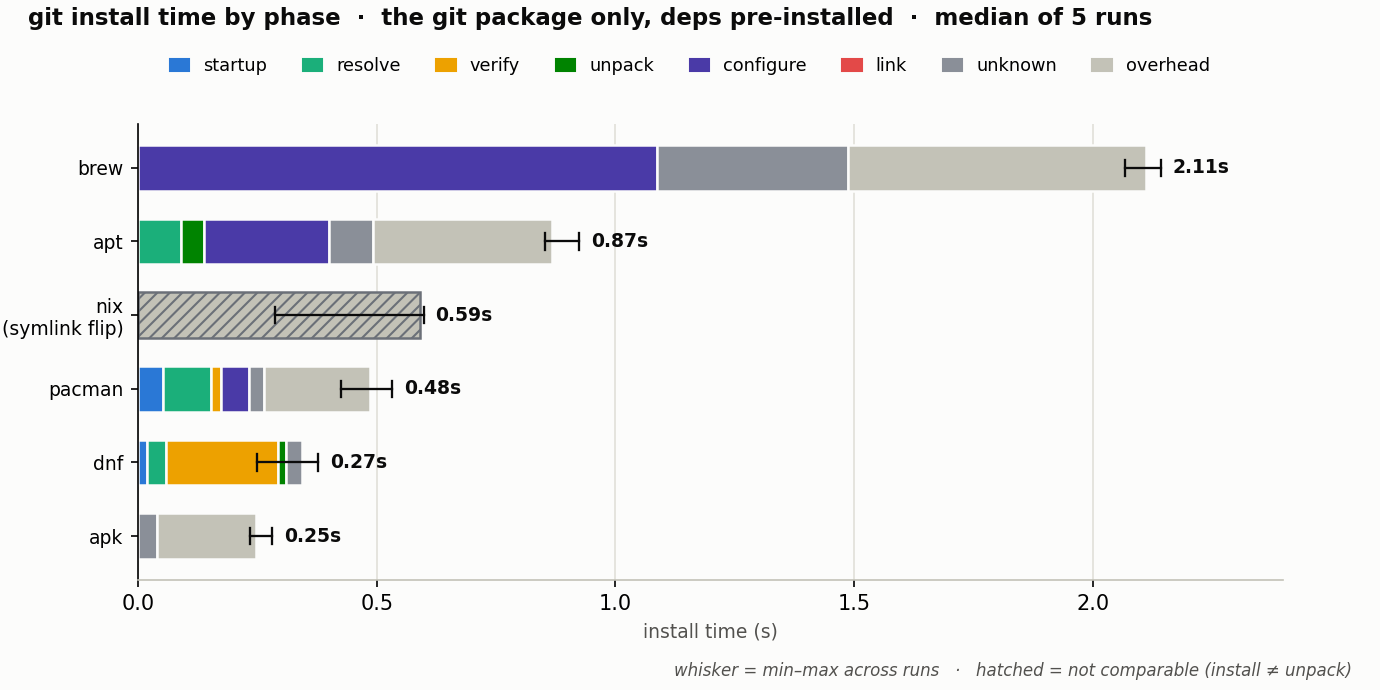
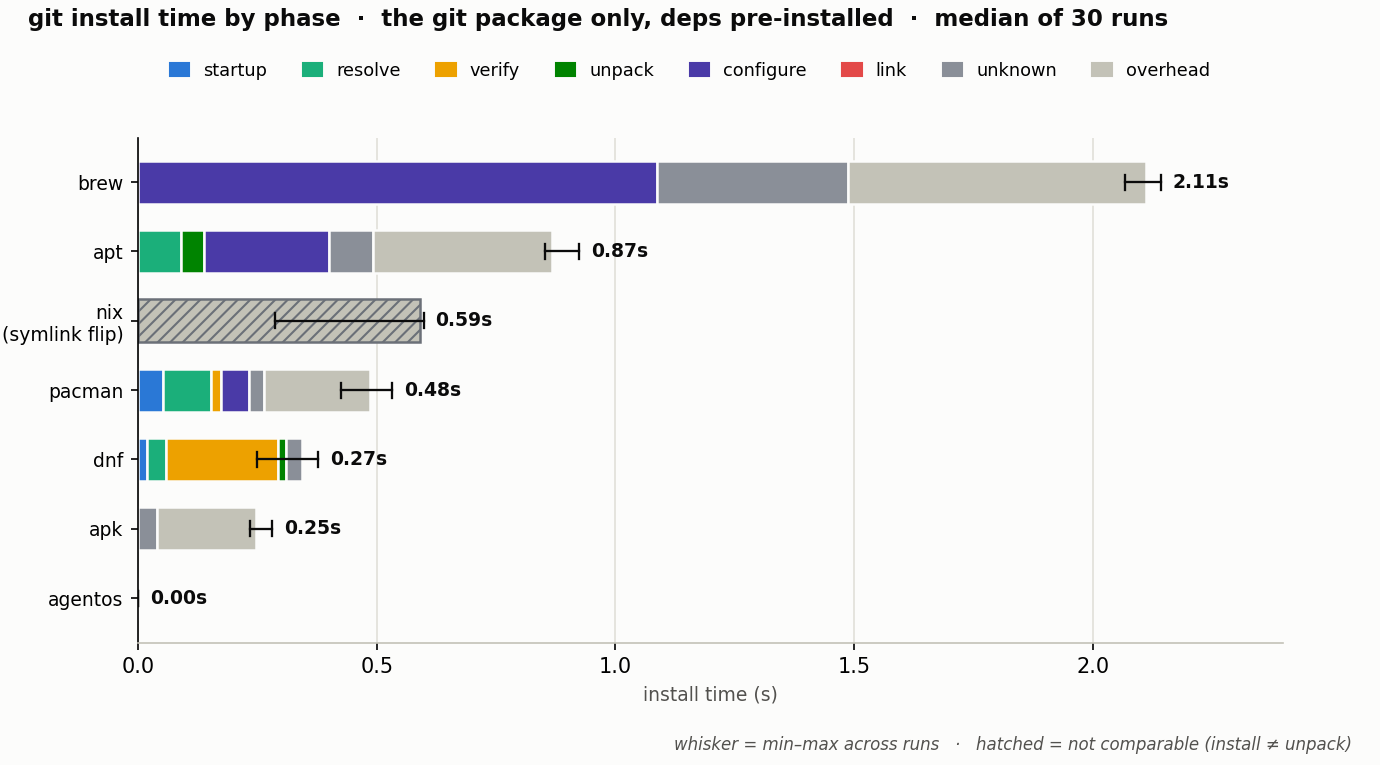
feat: add agentos as a hardcoded reference point
- Add agentOS package-load bench (git package: ~0.017 ms median, no download)
  as a hardcoded reference column in the chart and matrix
- Not run by the Docker harness; row lives in-source in synthesize.js (results/
  is git-ignored) with a permalink to the source bench
- Document the reference + permalink in the README intro
- Regenerate chart.png and results tables

diff --git a/synthesize.js b/synthesize.js
@@ -9,7 +9,10 @@ const os = require('os');
 const { execSync } = require('child_process');
 
 const OUT = path.join(__dirname, 'results');
-const ORDER = ['apk', 'pacman', 'dnf', 'apt', 'nix', 'brew'];
+// 'agentos' is HARDCODED — see AGENTOS_ROW below. It is NOT run by run.js's Docker
+// harness; its numbers come from the agentOS package-load bench (results/ is git-
+// ignored, so the row lives here in-source to survive regeneration). Keep it first.
+const ORDER = ['agentos', 'apk', 'pacman', 'dnf', 'apt', 'nix', 'brew'];
 
 // Canonical install phases. Each install-log line is bucketed by the FIRST pattern it
 // matches, in this order; unmatched lines go to a VISIBLE 'unknown' bucket (never a
@@ -60,9 +63,22 @@ function topSteps(lines, n = 3) {
     .map(({ d, text }) => `${d.toFixed(3)}s ${text.slice(0, 46).trim()}`);
 }
 
+// ---- HARDCODED agentos reference (not run by the Docker harness) ----
+// agentOS does not "install" a package the way apt/apk/etc. do — it loads a
+// precomputed `.aospkg` into its VM. Loading the `git` package takes ~0.017 ms
+// (median; min 0.013, max 0.020), with no download. These numbers are copied from
+// the agentOS package-load benchmark and are NOT reproduced by this repo:
+// https://github.com/rivet-dev/agentos/blob/9c97667d3b765ea008e3c661cc807adbcb0c9ac9/crates/native-sidecar/tests/projection_bench.rs
+const AGENTOS_ROW = {
+  manager: 'agentos', image: 'agentos VM (V8/wasm)', git: 'wasm', reps: 30, deps: '1',
+  download_s: 0, install_s: 0.000017, install_min: 0.000013, install_max: 0.00002,
+  buckets: Object.fromEntries(DISPLAY_PHASES.map((k) => [k, 0])), top: [], size: undefined,
+};
+
 // ---- collect ----
 const rows = [];
 for (const m of ORDER) {
+  if (m === 'agentos') { rows.push({ ...AGENTOS_ROW }); continue; }
   let meta;
   try { meta = JSON.parse(fs.readFileSync(path.join(OUT, `${m}.json`), 'utf8')); } catch { continue; }
   const installLines = parseTs(readLog(m, 'install'));

diff --git a/README.md b/README.md
@@ -20,6 +20,13 @@ timed phases:
 Every line of both phases is timestamped with the elapsed time since the previous line,
 so the install can be broken down step by step. Set `REPS=<n>` to change the repeat count.
 
+> **agentos** appears in the results as a **hardcoded reference point** — it is *not* run by
+> this Docker harness. Instead of a traditional package manager, agentOS loads a precomputed
+> `.aospkg` into its VM; loading the `git` package takes **~0.017 ms** (median; min 0.013,
+> max 0.020), with no download step. That number comes from the agentOS package-load
+> benchmark, not from this repo:
+> <https://github.com/rivet-dev/agentos/blob/9c97667d3b765ea008e3c661cc807adbcb0c9ac9/crates/native-sidecar/tests/projection_bench.rs>
+
 ## Latest results
 
 Auto-generated by `synthesize.js` on the last run — the chart and matrix below, and the
@@ -33,33 +40,34 @@ Auto-generated by `synthesize.js` on the last run — the chart and matrix below
 - **CPU:** 12th Gen Intel(R) Core(TM) i7-12700KF (20 logical cores)
 - **Memory:** 67.2 GB   **Arch:** x64   **Kernel:** 6.1.0-41-amd64
 - **OS:** Debian GNU/Linux 12 (bookworm)   **Docker:** 28.3.1
-- **Disk (/):** /dev/nvme0n1p2 ext4  937G  142G
-- **Generated:** 7/6/2026, 12:14:20 AM PDT
+- **Disk (/):** /dev/nvme0n1p2 ext4  937G  261G
+- **Generated:** 7/6/2026, 3:51:01 AM PDT
 
 ### Phase correlation matrix
 
-_`install MEDIAN` is the median of 5 offline runs (`install min–max` shown); sub-phases are a heuristic bucketing of log lines (see README). `download*` is a single, network-dependent sample._
+_`install MEDIAN` is the median of 30 offline runs (`install min–max` shown); sub-phases are a heuristic bucketing of log lines (see README). `download*` is a single, network-dependent sample._
 
-| phase (s) | apk | pacman | dnf | apt | nix | brew |
-|---|---:|---:|---:|---:|---:|---:|
-| **download\*** | 0.63 | 1.02 | 1.89 | 1.06 | 6.83 | 3.02 |
-| install: startup | 0.00 | 0.05 | 0.02 | 0.00 | 0.00 | 0.00 |
-| install: resolve | 0.00 | 0.10 | 0.04 | 0.09 | 0.00 | 0.00 |
-| install: verify | 0.00 | 0.02 | 0.23 | 0.00 | 0.00 | 0.00 |
-| install: unpack | 0.00 | 0.00 | 0.02 | 0.05 | 0.00 | 0.00 |
-| install: configure | 0.00 | 0.06 | 0.00 | 0.26 | 0.00 | 1.09 |
-| install: link | 0.00 | 0.00 | 0.00 | 0.00 | 0.00 | 0.00 |
-| install: unknown | 0.04 | 0.03 | 0.03 | 0.09 | 0.00 | 0.40 |
-| **install MEDIAN** | 0.25 | 0.48 | 0.27 | 0.87 | 0.59 | 2.11 |
-| install min–max | 0.23–0.28 | 0.43–0.53 | 0.25–0.38 | 0.85–0.92 | 0.29–0.60 | 2.07–2.14 |
-| git version | 2.54.0 | 2.55.0 | 2.55.0 | 2.39.5 | 2.54.0 | 2.51.2 |
-| deps ~ | 1 | 1 | 1 | 1 | 84 | 1 |
-| download size | — | 7.11 MiB | 5 MiB | 7264 kB | 127.7 MiB | — |
+| phase (s) | agentos | apk | pacman | dnf | apt | nix | brew |
+|---|---:|---:|---:|---:|---:|---:|---:|
+| **download\*** | 0.00 | 0.63 | 1.02 | 1.89 | 1.06 | 6.83 | 3.02 |
+| install: startup | 0.00 | 0.00 | 0.05 | 0.02 | 0.00 | 0.00 | 0.00 |
+| install: resolve | 0.00 | 0.00 | 0.10 | 0.04 | 0.09 | 0.00 | 0.00 |
+| install: verify | 0.00 | 0.00 | 0.02 | 0.23 | 0.00 | 0.00 | 0.00 |
+| install: unpack | 0.00 | 0.00 | 0.00 | 0.02 | 0.05 | 0.00 | 0.00 |
+| install: configure | 0.00 | 0.00 | 0.06 | 0.00 | 0.26 | 0.00 | 1.09 |
+| install: link | 0.00 | 0.00 | 0.00 | 0.00 | 0.00 | 0.00 | 0.00 |
+| install: unknown | 0.00 | 0.04 | 0.03 | 0.03 | 0.09 | 0.00 | 0.40 |
+| **install MEDIAN** | 0.00 | 0.25 | 0.48 | 0.27 | 0.87 | 0.59 | 2.11 |
+| install min–max | 0.00–0.00 | 0.23–0.28 | 0.43–0.53 | 0.25–0.38 | 0.85–0.92 | 0.29–0.60 | 2.07–2.14 |
+| git version | wasm | 2.54.0 | 2.55.0 | 2.55.0 | 2.39.5 | 2.54.0 | 2.51.2 |
+| deps ~ | 1 | 1 | 1 | 1 | 1 | 84 | 1 |
+| download size | — | — | 7.11 MiB | 5 MiB | 7264 kB | 127.7 MiB | — |
 
 _Each manager installs only the `git` package with deps pre-installed, so `deps ~` = 1 (nix shows its store closure and is not counted). The `install: *` split is from a single (last) rep, not the median. **nix** caveat: its install is a profile symlink flip — unpack happens during the download phase (store realization), so its install time is **not** comparable to the others' unpack._
 
 ### Top install sub-steps (by measured delta)
 
+- **agentos** (agentos VM (V8/wasm)): 
 - **apk** (alpine:latest): `0.037s Executing busybox-1.37.0-r31.trigger` · `0.003s OK: 20.4 MiB in 28 packages` · `0.000s (1/1) Installing git (2.54.0-r0)`
 - **pacman** (archlinux:latest): `0.097s Optional dependencies for git` · `0.059s :: Running post-transaction hooks...` · `0.033s (2/3) Reloading system manager configuration..`
 - **dnf** (fedora:latest): `0.235s [1/4] Verify package files              100% |` · `0.041s [2/4] Prepare transaction               100% |` · `0.030s [4/4] Removing git-core-0:2.55.0-1.fc44 100% |`